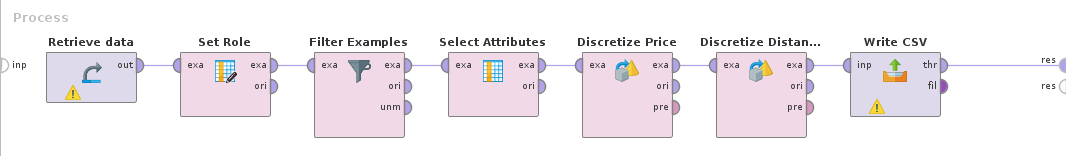
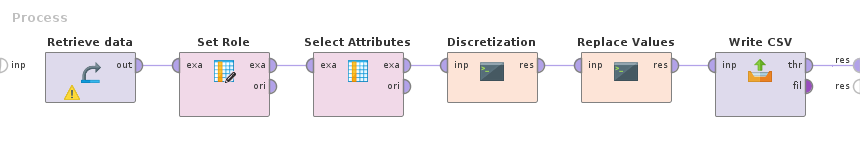
RapidMiner process

diff --git a/doc/content/4-Konzept.tex b/doc/content/4-Konzept.tex
@@ -174,6 +174,7 @@ Folgende Modifikationen wurden an den Rohdaten vorgenommen:
 		\rowcolor{tableheadcolor}
 		\bfseries Min & \bfseries Max & \bfseries Wert \\ \hline 
 		0 & 499 & budget \\ \hline 
+		500 & 1999 &  \\ \hline 
 		2000 & $\infty$ & luxury \\ \hline 
 	\end{tabular}
 \end{table}
@@ -182,24 +183,6 @@ Die Diskretisierung wird durchgeführt, damit nach dem Clustering die Häufigkei
 
 Es gibt verschiedene Diskretisierungsmethoden. Diese Teilen die Werte in gleiche Intervalle auf oder stellen sicher dass in jeder Kategorie die selbe Anzahl an Instanzen vorhanden sind.
 Die verwendeten Werte aus \cref{fig:recherche:datenvorbereitung:1} und \cref{fig:recherche:datenvorbereitung:2} wurde mit Interhome abgesprochen. 
-
-
-\begin{figure}[htb]
-	\begin{subfigure}[t]{0.8\linewidth}
-		\centering
-		\includegraphics[width=1\linewidth]{images/rapidminer-process-1.png}
-		\caption{Teil 1}
-		\label{fig:recherche:datenvorbereitung:3:1}
-	\end{subfigure} \\
-	\begin{subfigure}[t]{0.8\linewidth}
-		\centering
-		\includegraphics[width=1\linewidth]{images/rapidminer-process-2.png}
-		\caption{Teil 2}
-		\label{fig:recherche:datenvorbereitung:3:2}
-	\end{subfigure}
-	\caption{RapidMiner Prozess für die Vorbereitung der Daten}
-	\label{fig:recherche:datenvorbereitung:3}
-\end{figure}
 
 \subsection{Attributeinschränkung}
 \label{sec:recherche:attributeinschraenkung}
@@ -267,6 +250,41 @@ In Absprache mit Interhome wurde entschieden, dass in einem ersten Schritt jene 
 \end{table}
 
 %Einige Attribute sind mehrfach
+
+\subsection{RapidMiner Prozess für die Datenvorbereitung}
+\label{sec:recherche:rapidminer}
+
+Die Datenvorbereitung (data preprocessing) wird mit dem Programm RapidMiner durchgeführt.
+Zuerst werden die Daten aus dem \gls{csv} File geladen. Anschliessend die Attribute gemäss \cref{fig:recherche:attributeinschraenkung:2} eingeschränkt, die Diskretisierung entsprechend \cref{fig:recherche:datenvorbereitung:1} und \ref{fig:recherche:datenvorbereitung:2} durchgeführt.
+
+\cref{fig:recherche:rapidminer:1} zeigt den Prozess im RapidMiner Studio. In \ref{fig:recherche:rapidminer:1:1} wird der Hauptprozess gezeigt. Zusätzlich sind die Schritte "`Set Role"' und "`Write CSV"'. Ersterer setzt das Feld "`RESNRDIS"' als "`ID"', was intern für RapidMiner benötigt wird. Der letzte Schritt schreibt das Resultat in ein \gls{csv} File damit es nachher weiterverwendet werden kann.
+
+\cref{fig:recherche:rapidminer:1:2} ist ein Unterprozess welcher die Diskretisierung des Preises und der Distanzen vornimmt. Im \cref{sec:recherche:datenvorbereitung} wird beschrieben dass nicht alle Bereich der zu diskretierenden Attribute verwendet werden soll (z.B. Distanzen >499 werden nicht berücksichtigt). Dies kann mit den "`Discretize"' Operatoren in RapidMiner nicht abgebildet werden. Deshalb werden alle Werte diskretiert und die zu ignorierenden nachher entfernt.
+
+\cref{fig:recherche:rapidminer:1:3} zeigt den Unterprozess für die Ersetzung von Attributwerten. Zuerst werden, wie im \cref{sec:recherche:datenbeschaffung} beschrieben, "`X"' Werte von kategorischen Werten mit "`1"' ersetzt und leere Werte mit "`0"'. Danach werden die nicht zu verwendenden diskretierten Werte der Preise und Distanzen entfernt.
+
+\begin{figure}[htb]
+	\begin{subfigure}[t]{1\textwidth}
+		\centering
+		\includegraphics[width=1\textwidth]{images/rapidminer-process}
+		\caption{Hauptprocess}
+		\label{fig:recherche:rapidminer:1:1}
+	\end{subfigure} \\
+	\begin{subfigure}[t]{0.5\textwidth}
+		\centering
+		\includegraphics[width=1\textwidth]{images/rapidminer-process-discretization}
+		\caption{Subprocess für die Diskretisierung}
+		\label{fig:recherche:rapidminer:1:2}
+	\end{subfigure}
+	\begin{subfigure}[t]{0.8\textwidth}
+		\centering
+		\includegraphics[width=1\textwidth]{images/rapidminer-process-replace-values}
+		\caption{Subprocess für die Ersetzung von Attributwerten}
+		\label{fig:recherche:rapidminer:1:3}
+	\end{subfigure}
+	\caption{RapidMiner Prozess für die Vorbereitung der Daten}
+	\label{fig:recherche:rapidminer:1}
+\end{figure}
 
 \section{Ablauf}
 Die Umsetzung in diesem Projekt wird zweistufig durchgeführt. Als erstes gibt der User eine Abfrage ein, für welche anschliessend eine eine Liste von häufig auftretenden Attributen gesucht werden soll (siehe \cref{sec:einletung:ziel} \nameref{sec:einletung:ziel}).

diff --git a/doc/content/6-Summary.tex b/doc/content/6-Summary.tex
@@ -6,6 +6,6 @@
 Diskretiesierungsschritte \cref{sec:recherche:datenvorbereitung} nach Häufigkeitsanalyse.
 Z.b. die Preise plotten -> man sieht ein peek bei CHF1000/Buchung. +/- 1/3 vom Peek sind die normalen Preise. Darunter Budget, darüber Luxury
 
-\gls{optics} einsetzen um $\epsilon$ bei \gls{DBSCAN} zu eliminieren.
+\gls{optics} einsetzen um $\epsilon$ bei \gls{dbscan} zu eliminieren.
 
 Hierarchical clustering einsetzen. Allerdings weniger performant und deshalb schlecht fürs explorieren geeignet.
